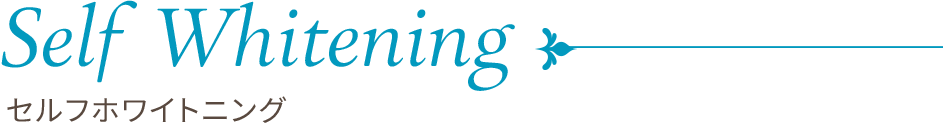
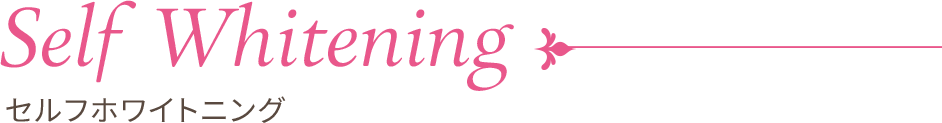
2021/01/18

diff --git a/css/style.css b/css/style.css
@@ -4182,7 +4182,7 @@ footer .footer_reserved {
 }
 
 .menu__whitening {
-  background-color: #0299be;
+  background-color: #e6396a;
   padding: 30px 0;
   margin-top: 170px;
   z-index: -5;
@@ -4329,7 +4329,7 @@ footer .footer_reserved {
 }
 
 .five-minutes .five-minutes_box .five-minutes_flex .five-minutes_flex_right .five-minutes_flex_right_title {
-  color: #0299be;
+  color: #eb6794;
   font-size: 1.3rem;
   padding: 20px 0;
 }

diff --git a/scss/_whitening.scss b/scss/_whitening.scss
@@ -3,7 +3,7 @@
 // ==============================================
 
 .menu__whitening {
-  background-color: #0299be;
+  background-color: #e6396a;
   padding: 30px 0;
   margin-top: 170px;
   z-index: -5;
@@ -116,7 +116,7 @@
         }
 
         .five-minutes_flex_right_title {
-          color: #0299be;
+          color: #eb6794;
           font-size: 1.3rem;
           padding: 20px 0;
 
